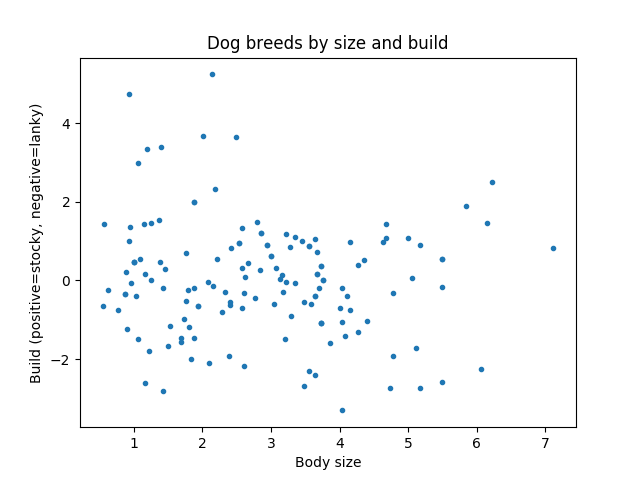
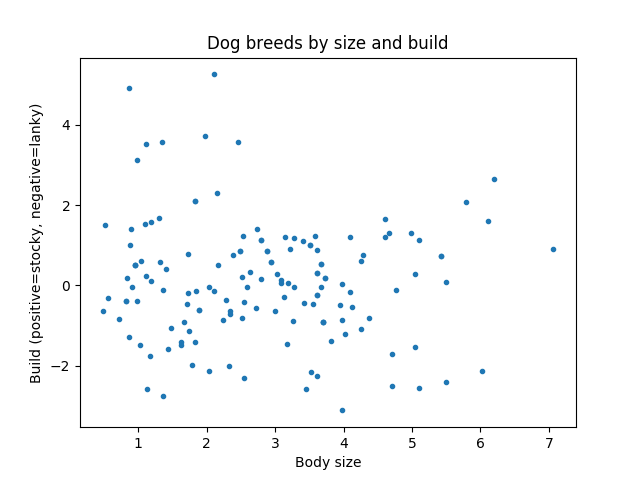
model finalized

diff --git a/fitter.py b/fitter.py
@@ -11,20 +11,20 @@ def fit_curve(x, y):
 
     models, training_errors, testing_errors = compare_models(x, y)
     best_model = models[np.argmin(testing_errors)]
-    res = train(best_model, x, y, n_iter=best_model.n_iter_default)
-    p_final = res.x
+    p_final = train(best_model, x, y, n_iter=best_model.n_iter_default)
     dta.save_model((best_model, p_final))
 
     return best_model, p_final
 
 
-def compare_models(x, y, n_folds=50):
+def compare_models(x, y):
+    models = mod.all_models
     training_errors = []
     testing_errors = []
-    data_sets = []
 
+    n_folds = 50
+    data_sets = []
     for i_fold in range(n_folds):
-        models = mod.all_models
         data_sets.append(split_data(x, y))
 
     for model in models:
@@ -33,8 +33,7 @@ def compare_models(x, y, n_folds=50):
         for i_fold in range(n_folds):
             x_train, y_train, x_test, y_test = data_sets[i_fold]
 
-            res = train(model, x_train, y_train, n_iter=model.n_iter_default)
-            p_final = res.x
+            p_final = train(model, x_train, y_train, n_iter=model.n_iter_default)
 
             all_training_errors.append(loss_function(
                 p_final, x_train, y_train, model))
@@ -66,14 +65,14 @@ def split_data(x, y):
 
 
 def train(model, x_train, y_train, n_iter=3):
-    best_res = None
+    p_best = None
     best_loss = 1e100
     for _ in range(n_iter):
         # The arguments that will get passed to the error function,
         # in addition to the model parameters of the current iteration.
         loss_fun_args = (x_train, y_train, model)
         p_initial = model.initial_guess(x=x_train, y=y_train)
-        # Confusingly the `x0` argument is not a request for the x values of
+        # Confusingly the `x0` argument is not expecting the x value of
         # the data points or for the 0th element of a list. It is for the
         # initial guess for the parameter values.
         res = opt.minimize(
@@ -83,16 +82,16 @@ def train(model, x_train, y_train, n_iter=3):
             args=loss_fun_args,
         )
         loss = loss_function(
-            res.x,
+	    res.x,
             x_train,
             y_train,
             model,
         )
         if loss < best_loss:
             best_loss = loss
-            best_res = res
+            p_best = res.x
 
-    return best_res
+    return p_best
 
 
 def loss_function(p, xs, ys, model):

diff --git a/dog_sizer.py b/dog_sizer.py
@@ -1,13 +1,20 @@
 import numpy as np
-import preprocessor as pre
+import data_handler as dta
+import fitter as fit
+
+# We keep height on the x-axis
+# and mass on the y-axis.
 
 
 def get_similar_breeds(target_breed):
-    body_size, build, breed = pre.calculate_build_data()
+    body_size, build, breed = calculate_build_data()
 
     i_target = np.where(breed == target_breed)[0][0]
     target_size = body_size[i_target]
 
+    # build is positive for stocky breeds,
+    # negative for lanky breeds,
+    # and near zero for medium-sized breeds.
     build_threshold = .5
     i_lanky = np.where(build < -build_threshold)[0]
     i_stocky = np.where(build > build_threshold)[0]
@@ -28,3 +35,30 @@ def get_similar_breeds(target_breed):
     lanky_results = breed[i_lanky][i_lanky_results]
 
     return stocky_results, medium_results, lanky_results
+
+
+def calculate_build_data():
+    breed, height, mass = dta.get_data()
+    model, params = fit.fit_curve(height, mass)
+
+    # body_size is distance along the curve
+    # build is distance above the curve
+    # (breeds that fall below the curve have a negative build).
+    height_curve, mass_curve = model.to_points(params, height)
+    height_scale = np.var(height)
+    mass_scale = np.var(mass)
+    d_path = np.sqrt(
+        (np.diff(height_curve)**2) / height_scale
+        + (np.diff(mass_curve)**2) / mass_scale)
+    path_position = np.cumsum(d_path)
+
+    distance, size_indices = fit.distance_to_curve(
+        height, mass, height_curve, mass_curve)
+
+    body_size = path_position[size_indices - 1]
+    build = 10 * distance / np.sqrt(body_size)
+    estimated_mass = model.evaluate(params, height)
+    i_negative = np.where(mass < estimated_mass)[0]
+    build[i_negative] = - build[i_negative]
+
+    return body_size, build, breed

diff --git a/explore_height_mass_data.py b/explore_height_mass_data.py
@@ -1,11 +1,35 @@
+import matplotlib
+matplotlib.use("agg")
+import matplotlib.pyplot as plt
 import data_handler as dta
 import fitter as fit
-import plotting as plt
+
+
+def plot_points(height, mass):
+    """
+    Returns the pyplot axis containing the scatterplot.
+    """
+    plt.figure(4390)
+    plt.clf()
+    ax = plt.gca()
+    ax.plot(height, mass, '.')
+    ax.set_xlabel("Height (cm)")
+    ax.set_ylabel("Mass (kg)")
+    ax.set_title("Dog breeds")
+
+    return ax
+
+
+def finalize_plot(ax):
+    title = ax.get_title()
+    title_str = "_".join(title.lower().split())
+    output_filename = "mass_height_" + title_str + ".png"
+    plt.savefig(output_filename)
 
 
 breed, height, mass = dta.get_data()
-scatterplot = plt.plot_points(height, mass, "Dog breeds")
-plt.finalize_plot(scatterplot)
+scatterplot = plot_points(height, mass)
+finalize_plot(scatterplot)
 
 model, params = fit.fit_curve(height, mass)
 height_curve, mass_curve = model.to_points(params, height)
@@ -13,4 +37,4 @@ scatterplot.plot(height_curve, mass_curve)
 scatterplot.set_title("Dog breeds with " + model.name)
 scatterplot.set_xlim(15, 85)
 scatterplot.set_ylim(0, 100)
-plt.finalize_plot(scatterplot)
+finalize_plot(scatterplot)

diff --git a/polynomial_model.py b/polynomial_model.py
@@ -26,13 +26,10 @@ class PolynomialModel(object):
         self.n_iter_default = self.order * 10
 
     def initial_guess(self, x, y):
-        params = [np.random.normal(
-            loc=np.mean(y),
-            scale=np.std(y))]
+        params = [np.random.normal(loc=np.mean(y), scale=np.std(y))]
         for i_term in range(self.order):
             params.append(np.random.normal(
-                loc=0,
-                scale=np.std(y) / np.std(x)**(i_term + 1)))
+                loc=0, scale=np.std(y) / np.std(x)**(i_term + 1)))
         return np.array(params)
 
     def evaluate(self, p, x):
@@ -56,6 +53,6 @@ all_models = [
     PolynomialModel(order=2),
     PolynomialModel(order=3),
     PolynomialModel(order=4),
-    # PolynomialModel(order=5),
-    # PolynomialModel(order=6),
+    PolynomialModel(order=5),
+    PolynomialModel(order=6),
 ]

diff --git a/data_handler.py b/data_handler.py
@@ -2,21 +2,17 @@ import pickle
 import pandas as pd
 
 
-data_filename = "dog_breeds.csv"
-breeds_df = pd.read_csv(data_filename)
-
-
 def get_data():
+    data_filename = "dog_breeds.csv"
+    breeds_df = pd.read_csv(data_filename)
     breed = breeds_df["Breed"].values
     height = breeds_df["height_cm"].values
     mass = breeds_df["mass_kg"].values
     return breed, height, mass
 
 
-model_filename = "height_mass_model.pkl"
-
-
 def retrieve_model():
+    model_filename = "height_mass_model.pkl"
     try:
         with open(model_filename, 'rb') as model_file:
             model_data = pickle.load(model_file)
@@ -27,5 +23,6 @@ def retrieve_model():
 
 
 def save_model(model_data):
+    model_filename = "height_mass_model.pkl"
     with open(model_filename, 'wb') as model_file:
         pickle.dump(model_data, model_file)

diff --git a/explore_build_data.py b/explore_build_data.py
@@ -1,15 +1,15 @@
 import os
 import matplotlib
 matplotlib.use("agg")
-import matplotlib.pyplot as plt  # noqa:E402
-import preprocessor as pre
+import matplotlib.pyplot as plt
+import dog_sizer as siz
 
 
 plt.figure(9870)
 plt.clf()
 ax = plt.gca()
 
-body_size, build, breed = pre.calculate_build_data()
+body_size, build, breed = siz.calculate_build_data()
 ax.plot(body_size, build, '.')
 ax.set_xlabel("Body size")
 ax.set_ylabel("Build (positive=stocky, negative=lanky)")
